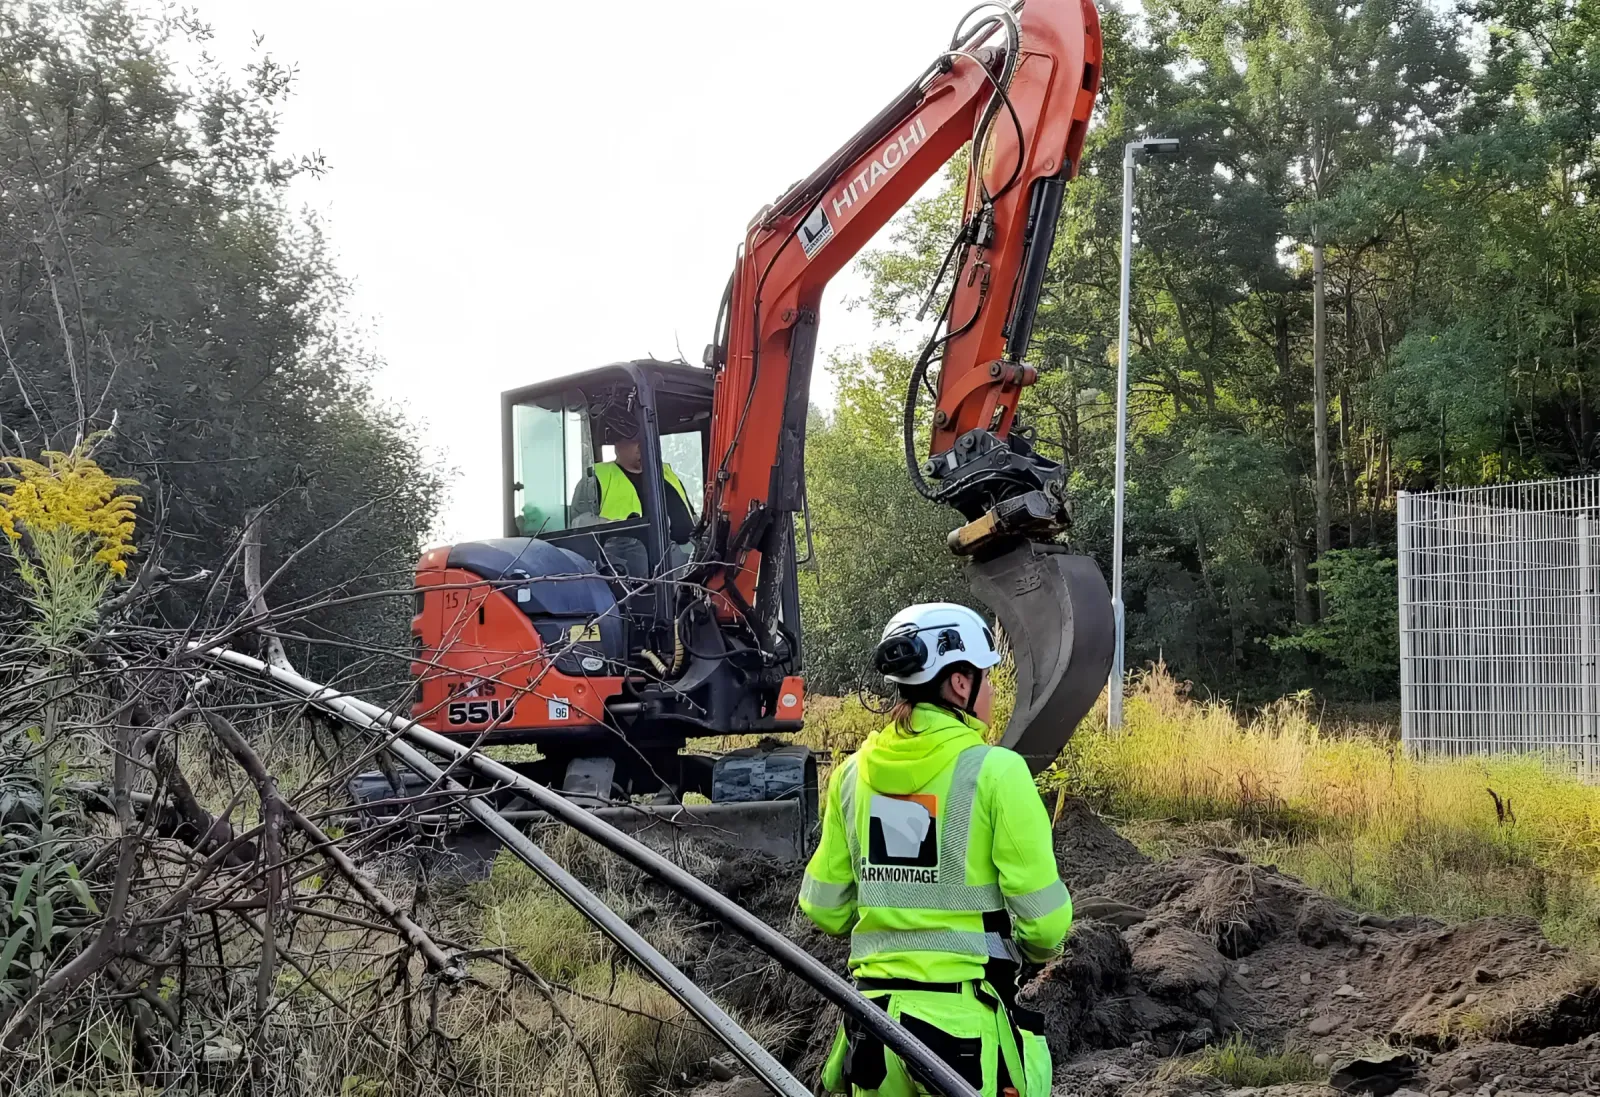
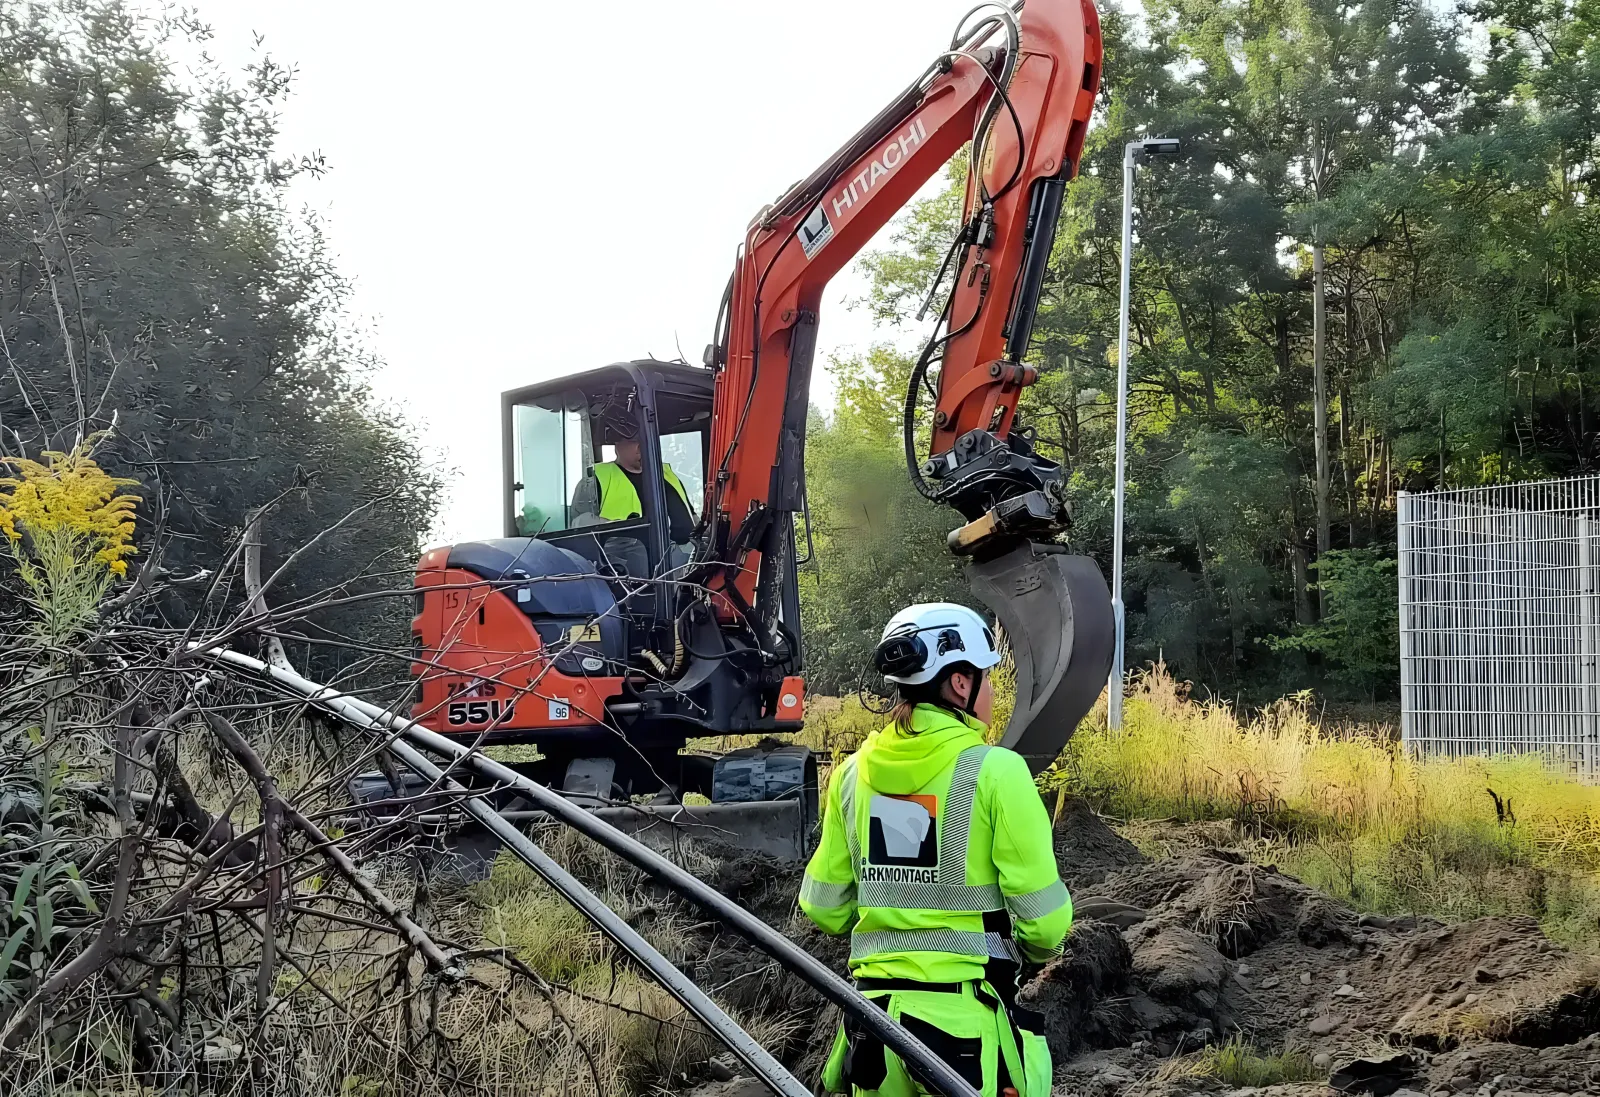
Hero: sharp on phones, from a 4K photo
- On a portrait screen the hero photo fills the height, so it was shown nearly
  three times larger than the 1200 px copy phones fetched. Its sizes now say so,
  and phones fetch the full photo.
- The excavator photo is upscaled from the original with Real-ESRGAN (a free
  Hugging Face Space) to 3840 px wide, with a new 2400 px copy in between;
  npm run photos makes 2400 px copies from now on.

Claude-Session: https://claude.ai/code/session_01WsQhrbwqEdu5AcRLqcrqhV

diff --git a/components/sections/HeroSection.tsx b/components/sections/HeroSection.tsx
@@ -20,8 +20,10 @@ function PhotoHero({ section }: { section: HeroProps["section"] }) {
       id={section.anchor || undefined}
       className="relative isolate flex min-h-[calc(100svh-4rem)] flex-col overflow-hidden bg-secondary sm:min-h-[calc(100svh-5rem)]"
     >
+      {/* On a portrait screen the photo fills the height, so it is shown about one and a half times the screen's
+          height wide; the browser then fetches a copy large enough to stay sharp. */}
       <ZoomImage
-        {...imageProps(section.image, "100vw")}
+        {...imageProps(section.image, "(orientation: portrait) 150vh, 100vw")}
         alt={section.image.alt}
         priority
         parallax="top"
